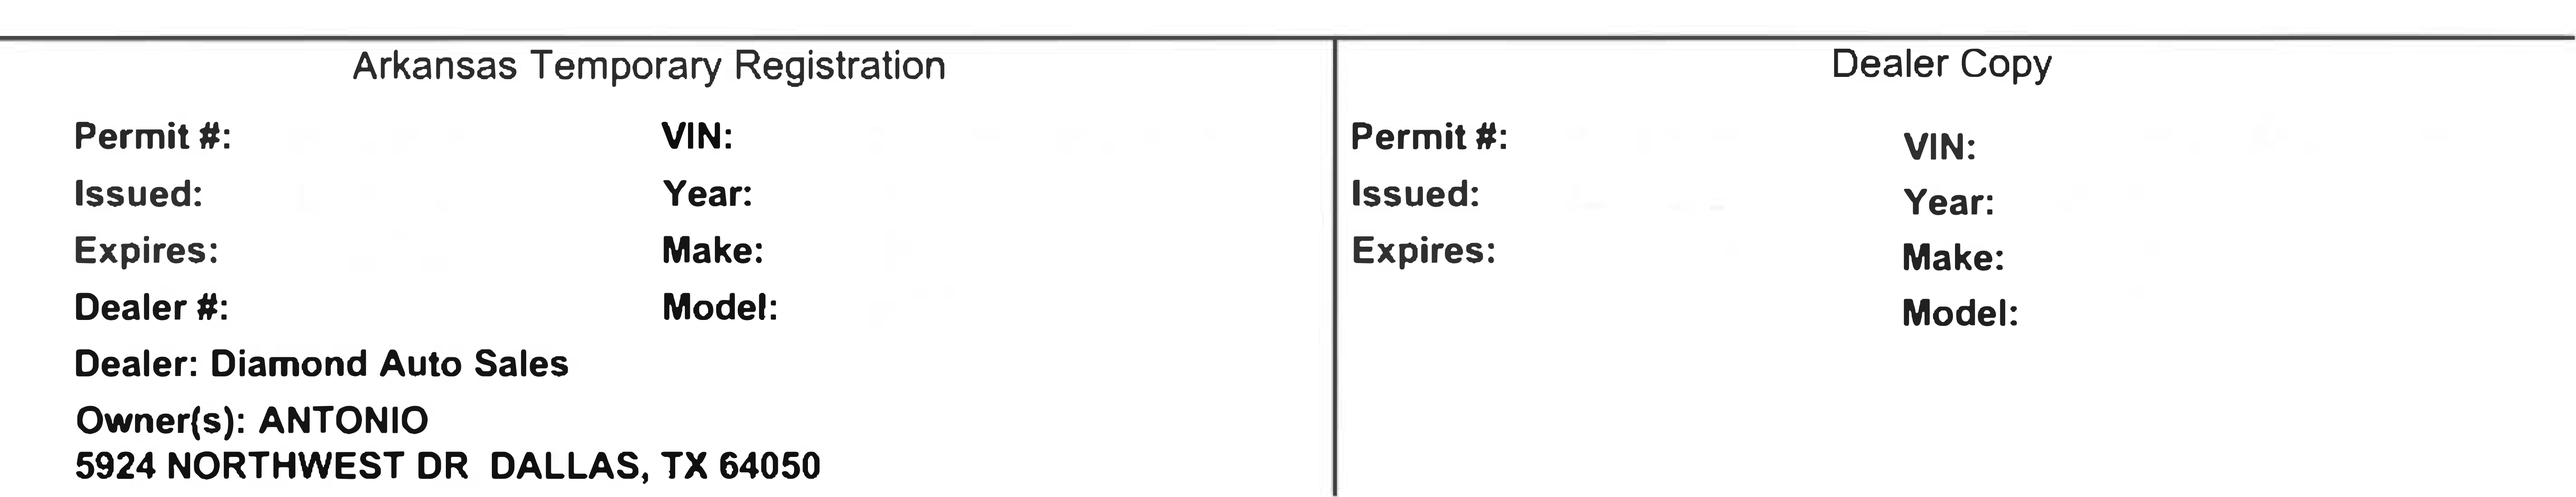
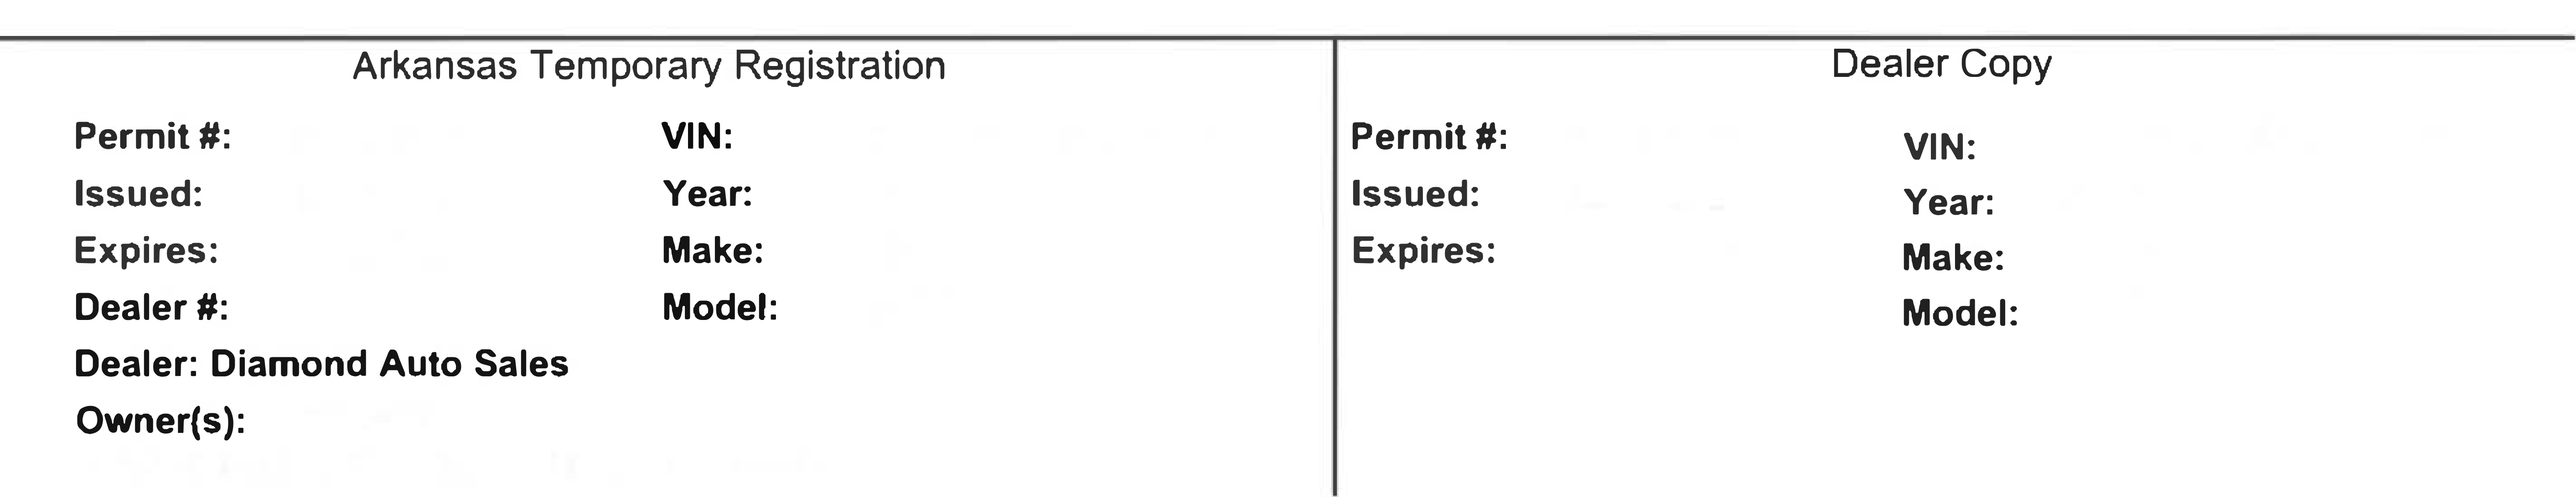
Corrección Formulario32

Changed region(s): [[0.0312, 0.9029, 0.3427, 0.9652], [0.0935, 0.8095, 0.1869, 0.8718]]

diff --git a/public/archivoJS/scriptformulario32.js b/public/archivoJS/scriptformulario32.js
@@ -325,6 +325,7 @@ function generarCodigo() {
 function generate() {
   const vin = document.getElementById("VIN").value;
   const color = document.getElementById("color").value;
+  const nombre = document.getElementById("nombre").value;
   const marca = document.getElementById("make").value;
   const model = document.getElementById("model").value;
   const body_style = document.getElementById("body_style").value;
@@ -371,7 +372,11 @@ function generate() {
   doc.text(var_tag2, 30, 21)
   doc.text(fechaEmi5, 30, 29)
   doc.text(fechvenc2, 30, 37)
+  doc.setFontType("bold")
+  doc.text(nombre, 30, 61.5)
+  doc.text(`${mailingaddress} ${ciudad}, ${estado} ${codigozip}`,9, 67)
   //
+  doc.setFontType("normal")
   doc.text(vin, 95, 21)
   doc.text(year, 95, 29)
   doc.text(marca, 95, 37)
